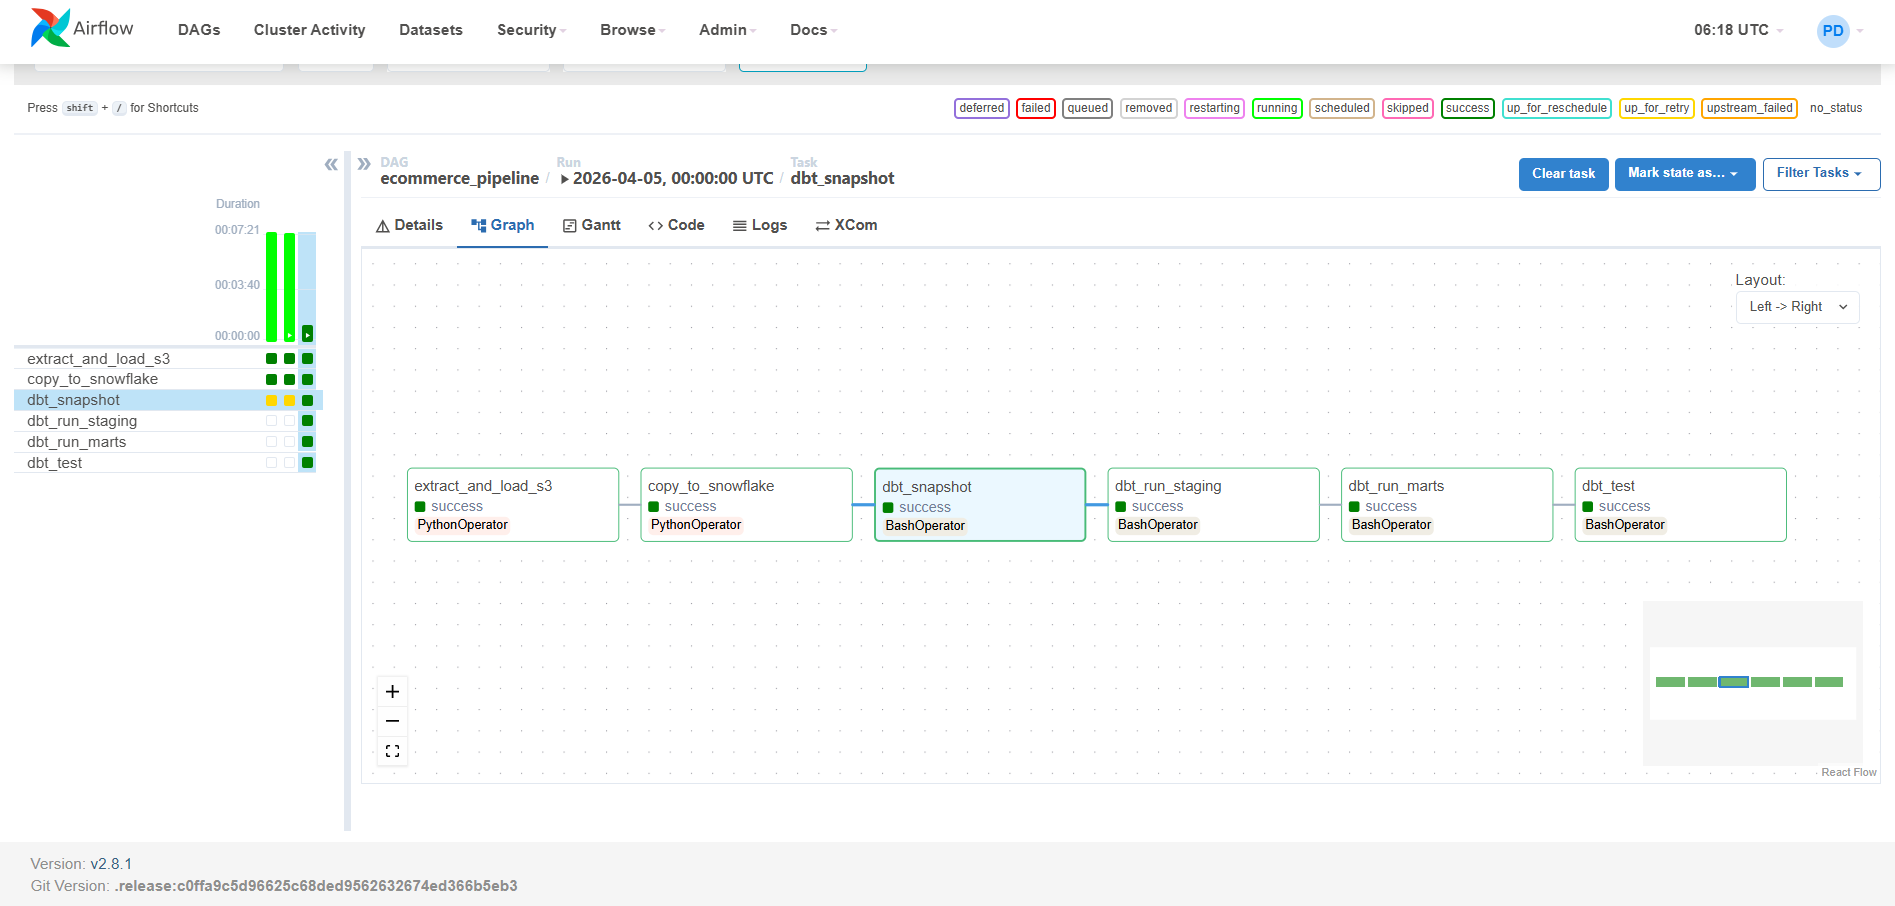
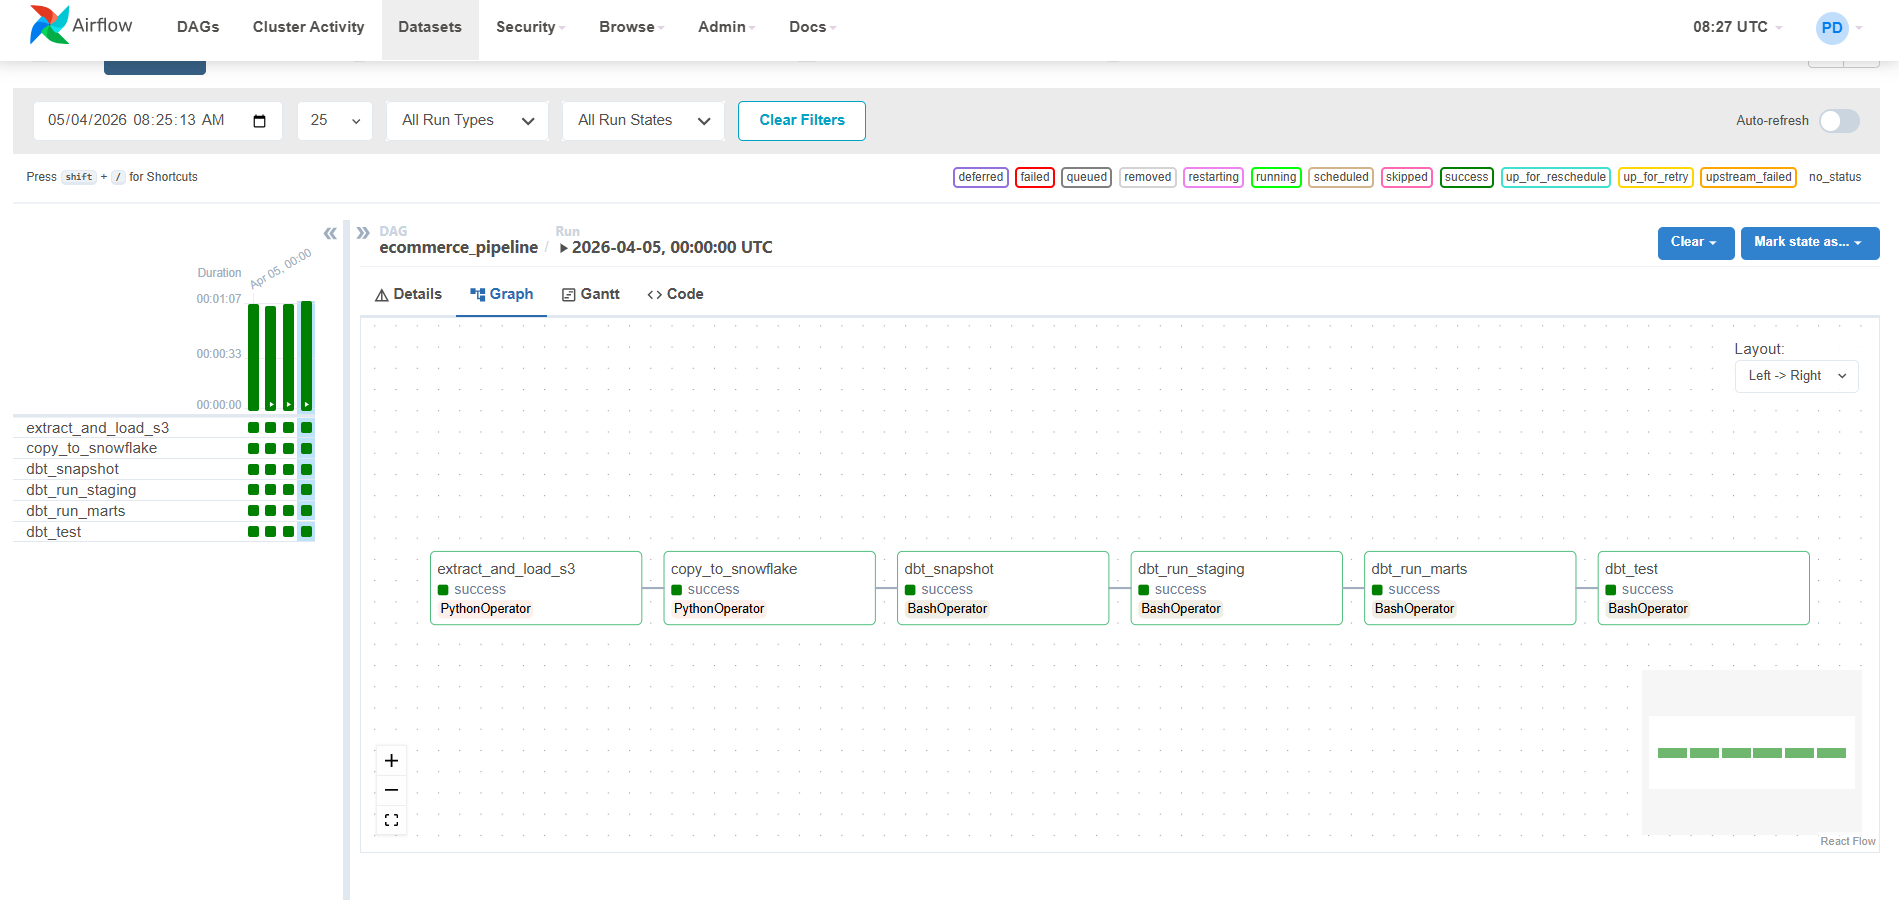
Finish projects, final commit hopefully

diff --git a/ingestion/mock_data.py b/ingestion/mock_data.py
@@ -1,5 +1,5 @@
 PRODUCTS = [
-    {"id": 1, "title": "Fjallraven Backpack", "price": 109.95, "description": "Your perfect pack for everyday use", "category": "men's clothing", "image": "https://fakestoreapi.com/img/81fPKd-2AYL._AC_SL1500_.jpg", "rating": {"rate": 3.9, "count": 120}},
+    {"id": 1, "title": "Fjallraven Backpack", "price": 200.95, "description": "Your perfect pack for everyday use", "category": "men's clothing", "image": "https://fakestoreapi.com/img/81fPKd-2AYL._AC_SL1500_.jpg", "rating": {"rate": 3.9, "count": 120}},
     {"id": 2, "title": "Mens Casual T-Shirt", "price": 22.3, "description": "Slim-fitting style", "category": "men's clothing", "image": "https://fakestoreapi.com/img/71-3HjGNDUL._AC_SY879._SX._UX._SY._UY_.jpg", "rating": {"rate": 4.1, "count": 259}},
     {"id": 3, "title": "Mens Cotton Jacket", "price": 55.99, "description": "Great outerwear jacket", "category": "men's clothing", "image": "https://fakestoreapi.com/img/71li-ujtlUL._AC_UX679_.jpg", "rating": {"rate": 4.7, "count": 500}},
     {"id": 4, "title": "Mens Casual Slim Fit", "price": 15.99, "description": "The color could be slightly different", "category": "men's clothing", "image": "https://fakestoreapi.com/img/71YXzeOuslL._AC_UY879_.jpg", "rating": {"rate": 2.1, "count": 430}},
@@ -22,7 +22,7 @@ PRODUCTS = [
 ]
 
 USERS = [
-    {"id": 1, "email": "john@gmail.com", "username": "johnd", "password": "m38rmF$", "name": {"firstname": "John", "lastname": "Doe"}, "address": {"city": "kilcoole", "street": "7835 new road", "number": 3, "zipcode": "12926-3874", "geolocation": {"lat": "-37.3159", "long": "81.1496"}}, "phone": "1-570-236-7033"},
+    {"id": 1, "email": "john@gmail.com", "username": "johnd", "password": "m38rmF$", "name": {"firstname": "John", "lastname": "Doe"}, "address": {"city": "Sydney", "street": "7835 new road", "number": 3, "zipcode": "12926-3874", "geolocation": {"lat": "-37.3159", "long": "81.1496"}}, "phone": "1-570-236-7033"},
     {"id": 2, "email": "morrison@gmail.com", "username": "mor_2314", "password": "83r5^_", "name": {"firstname": "David", "lastname": "Morrison"}, "address": {"city": "Killarneyville", "street": "7327 stop n shop ave.", "number": 7, "zipcode": "12643-1340", "geolocation": {"lat": "-37.3159", "long": "81.1496"}}, "phone": "1-570-236-7033"},
     {"id": 3, "email": "kevin@gmail.com", "username": "kevinryan", "password": "kev02937@", "name": {"firstname": "Kevin", "lastname": "Ryan"}, "address": {"city": "Cullsport", "street": "124 main Street", "number": 46, "zipcode": "12926-3874", "geolocation": {"lat": "-37.3159", "long": "81.1496"}}, "phone": "1-570-236-7033"},
     {"id": 4, "email": "don@gmail.com", "username": "donero", "password": "ewedon", "name": {"firstname": "Don", "lastname": "Romer"}, "address": {"city": "Killarneyville", "street": "7327 stop n shop ave.", "number": 7, "zipcode": "12643-1340", "geolocation": {"lat": "-37.3159", "long": "81.1496"}}, "phone": "1-570-236-7033"},

diff --git a/dags/ecommerce_pipeline_dag.py b/dags/ecommerce_pipeline_dag.py
@@ -68,18 +68,18 @@ with DAG(
     # env vars (Snowflake creds) are already in the container from .env via docker-compose
 
     task3 = BashOperator(
+        task_id='dbt_run_staging',
+        bash_command='cd /opt/airflow/dbt && dbt run --select staging.*',
+    )
+
+    task4 = BashOperator(
         task_id='dbt_snapshot',
         bash_command='cd /opt/airflow/dbt && dbt snapshot',
     )
 
-    task4 = BashOperator(
-        task_id='dbt_run_staging',
-        bash_command='cd /opt/airflow/dbt && dbt run --select staging',
-    )
-
     task5 = BashOperator(
         task_id='dbt_run_marts',
-        bash_command='cd /opt/airflow/dbt && dbt run --select marts',
+        bash_command='cd /opt/airflow/dbt && dbt run --select marts.*',
     )
 
     task6 = BashOperator(
@@ -88,4 +88,5 @@ with DAG(
     )
 
     # ── Wire the tasks together ───────────────────────────────────────────────
+    # staging must run before snapshot — snapshots read from stg_products and stg_users
     task1 >> task2 >> task3 >> task4 >> task5 >> task6

diff --git a/ingestion/pipeline.py b/ingestion/pipeline.py
@@ -37,19 +37,12 @@ def run_pipeline():
     for entity, key in s3_keys.items():
         logger.info(f"  {entity}: s3://{settings.aws_bucket_name}/{key}")
 
-    # task 2 — copy from S3 to Snowflake RAW
-    logger.info("Starting Snowflake ingestion")
-    copy_results = copy_raw_to_snowflake(
-        s3_keys=s3_keys,
-        run_id=run_id
-    )
-
-    logger.info("Pipeline complete — rows loaded to Snowflake:")
-    for entity, count in copy_results.items():
-        logger.info(f"  {entity}: {count} rows")
-
-    return s3_keys, run_id    # add this line
+    return s3_keys, run_id
 
 
 if __name__ == "__main__":
-    run_pipeline()
+    s3_keys, run_id = run_pipeline()
+    copy_results = copy_raw_to_snowflake(s3_keys=s3_keys, run_id=run_id)
+    logger.info("Pipeline complete — rows loaded to Snowflake:")
+    for entity, count in copy_results.items():
+        logger.info(f"  {entity}: {count} rows")

diff --git a/README.md b/README.md
@@ -1,6 +1,6 @@
 # Retail FMCG Data Pipeline
 
-**Production-grade ELT pipeline built end-to-end — from REST API to star schema analytics, fully orchestrated and tested.**
+**Production-grade ELT pipeline built end-to-end — from REST API to star schema analytics, fully orchestrated, tested, and validated.**
 
 ![Python](https://img.shields.io/badge/Python-3.11-blue)
 ![Snowflake](https://img.shields.io/badge/Snowflake-Data_Warehouse-29B5E8)
@@ -20,6 +20,22 @@
 
 **GitHub Actions CI — All checks passing on every push**
 ![CI Pipeline Success](docs/github_ci_success.png)
+
+---
+
+## SCD Type 2 — Validated End to End
+
+SCD Type 2 tracks historical changes to dimension records. When a product price or customer detail changes, the pipeline preserves the old version with a closing timestamp and inserts a new current record — so analysts can always join to the data that was true at the time of each order.
+
+**Before — single current record**
+![SCD Before Product](docs/scd_before_product.png)
+![SCD Before Customer](docs/scd_before_customer.png)
+
+**After — historical record preserved, new current record created**
+![SCD After Product](docs/scd_after_product.png)
+![SCD After Customer](docs/scd_after_customer.png)
+
+Each version gets a unique surrogate key. The old record has `effective_to` filled in. The new record has `effective_to = null` — that's how the pipeline knows it's current.
 
 ---
 
@@ -77,10 +93,19 @@ Tasks 1 and 2 use `PythonOperator` because runtime values (`s3_keys`, `run_id`) 
 | Table | Type | Notes |
 |---|---|---|
 | `fact_order_items` | Fact | Surrogate key via `dbt_utils.generate_surrogate_key` |
-| `dim_customer` | SCD Type 2 | Current records: `dbt_valid_to IS NULL` |
-| `dim_product` | SCD Type 2 | Tracks price and rating changes over time |
+| `dim_customer` | SCD Type 2 | Current records: `dbt_valid_to IS NULL` · surrogate key includes `dbt_valid_from` |
+| `dim_product` | SCD Type 2 | Tracks price and rating changes · surrogate key includes `dbt_valid_from` |
 | `dim_date` | Date spine | 730 days from 2024-01-01 · `date_key` as YYYYMMDD |
 | `fact_order_items_seed` | Seed | 50,000 synthetic rows UNION ALL'd into the mart |
+
+`fact_order_items` joins to the dimension version that was active at the time of the order using date-range logic:
+
+```sql
+left join products p
+    on  c.product_id = p.product_id
+    and c.cart_date >= p.effective_from
+    and (p.effective_to is null or c.cart_date < p.effective_to)
+```
 
 ---
 
@@ -132,7 +157,7 @@ ecommerce-pipeline/
 ├── dags/
 │   └── ecommerce_pipeline_dag.py    # 6-task Airflow DAG with XCom
 │
-├── docs/                            # Screenshots and architecture assets
+├── docs/                            # Pipeline screenshots and SCD Type 2 proof
 ├── snowflake/                       # setup.sql, create_raw_tables.sql
 ├── scripts/                         # generate_seed_data.py
 ├── Dockerfile                       # Extends apache/airflow:2.8.1
@@ -224,17 +249,18 @@ docker-compose up -d
 
 - `numpy` must be pinned to `<2` — Snowflake connector breaks with numpy 2.x
 - SCD Type 2 current record filter is `dbt_valid_to IS NULL` — not `dbt_is_current`
+- Surrogate keys in SCD Type 2 dims must include `dbt_valid_from` — not just the natural key
 - `COPY INTO` targets a specific file path per run — not the whole S3 folder
 - RAW tables are incremental and append-only — never truncate them
+- Staging deduplication must partition by natural key only — not `natural_key + run_id`
+- Snowflake stage and file format must be fully qualified in COPY INTO queries
 - dbt seeds land in STAGING by default — override schema in `dbt_project.yml` to route to MARTS
-- Snowflake stage and file format must be fully qualified in COPY INTO queries (`ECOMMERCE_DB.RAW.raw_s3_stage`)
-- Load env vars into PowerShell every new session — they don't persist between terminal restarts
 - `profiles.yml` is gitignored — recreate manually on each machine after cloning
+- Load env vars into PowerShell every new session — they don't persist between restarts
 
 ---
 
 ## Author
 
-**Phil Dinh** · Sydney, Australia  
-Data Engineer · FMCG & Retail Analytics background  
+**Phil Dinh** · Sydney, Australia
 [github.com/phildinh](https://github.com/phildinh)
